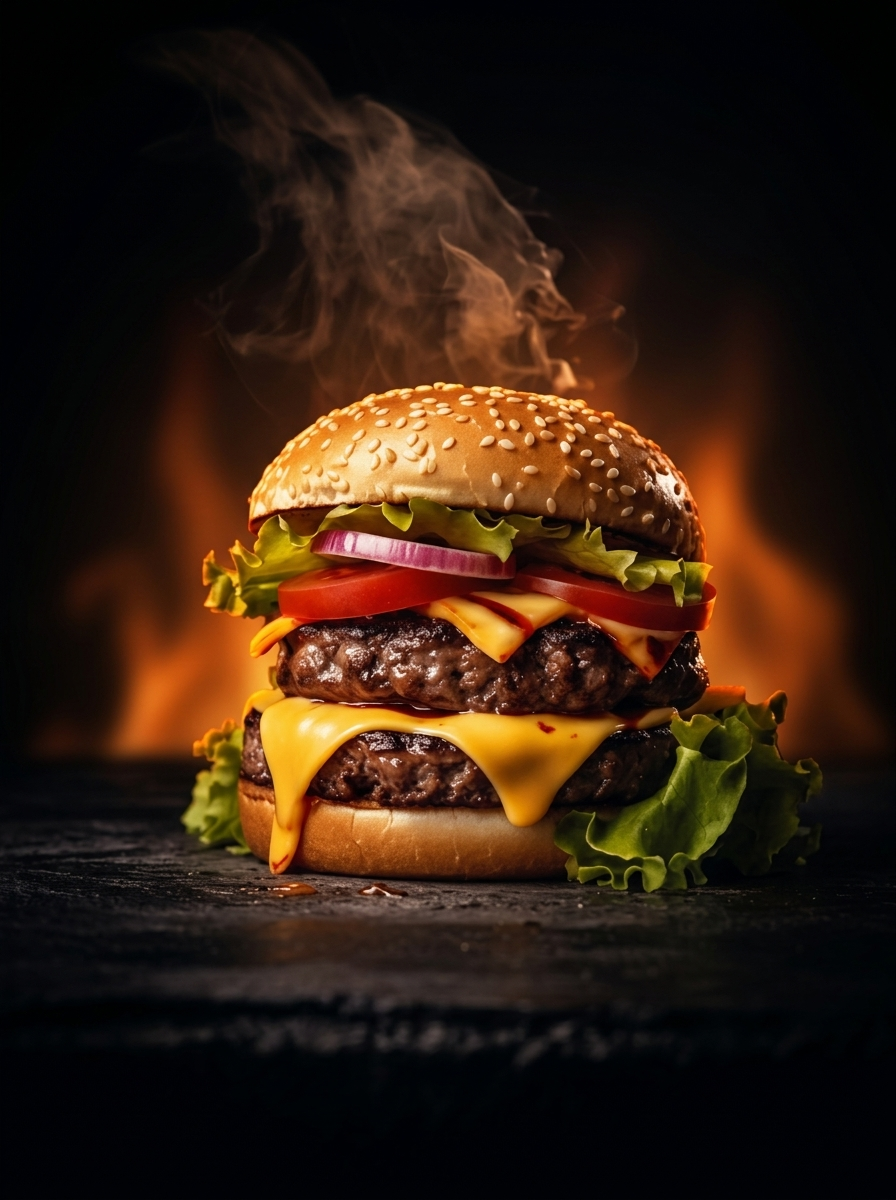
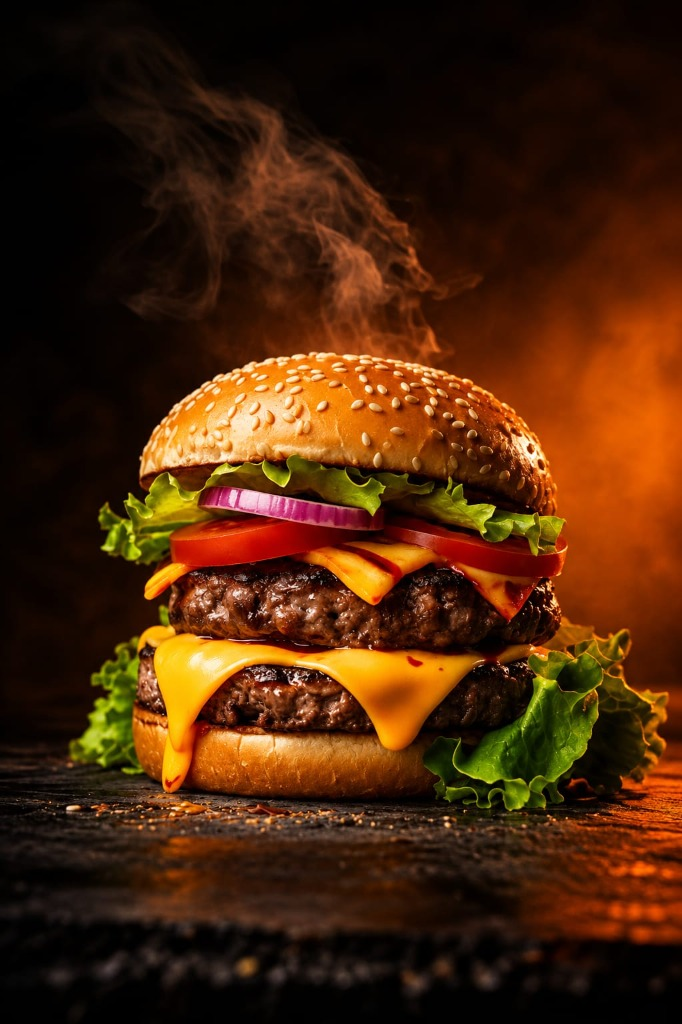
feat(ui): unified picture hero block with extended black background and 3D burger

diff --git a/frontend/src/components/home/PictureHeroBlock.tsx b/frontend/src/components/home/PictureHeroBlock.tsx
@@ -1,0 +1,150 @@
+import React, { useState, useRef } from 'react';
+import { Link } from 'react-router-dom';
+import { useAuth } from '../../context/AuthContext.js';
+import { UtensilsCrossed, ArrowRight } from 'lucide-react';
+
+export const PictureHeroBlock: React.FC = () => {
+  const { user } = useAuth();
+  const burgerRef = useRef<HTMLDivElement | null>(null);
+
+  // 3D Tilt Coordinates applied STRICTLY to the burger picture only
+  const [tilt, setTilt] = useState<{ x: number; y: number }>({ x: 0, y: 0 });
+  const [isHovered, setIsHovered] = useState<boolean>(false);
+
+  const handleBurgerMouseMove = (e: React.MouseEvent<HTMLDivElement>) => {
+    if (!burgerRef.current) return;
+    const rect = burgerRef.current.getBoundingClientRect();
+    const x = e.clientX - rect.left;
+    const y = e.clientY - rect.top;
+
+    const centerX = rect.width / 2;
+    const centerY = rect.height / 2;
+
+    // Smooth subtle tilt (-8 to +8 degrees)
+    const rotateX = -((y - centerY) / centerY) * 8;
+    const rotateY = ((x - centerX) / centerX) * 8;
+
+    setTilt({ x: rotateX, y: rotateY });
+  };
+
+  const handleBurgerMouseEnter = () => {
+    setIsHovered(true);
+  };
+
+  const handleBurgerMouseLeave = () => {
+    setIsHovered(false);
+    setTilt({ x: 0, y: 0 });
+  };
+
+  const getDashboardLink = () => {
+    if (!user) return '/student/menu';
+    if (user.role === 'STUDENT') return '/student/menu';
+    if (user.role === 'KITCHEN_STAFF') return '/kitchen/dashboard';
+    if (user.role === 'ADMIN') return '/admin/dashboard';
+    return '/student/menu';
+  };
+
+  return (
+    <div className="picture-hero-block relative w-full min-h-[540px] lg:min-h-[580px] xl:min-h-[620px] flex items-center overflow-hidden">
+      {/* Atmosphere Background Glow Layers */}
+      <div className="absolute top-1/2 right-[18%] -translate-y-1/2 w-[380px] h-[380px] bg-brand-500/[0.18] rounded-full blur-[100px] pointer-events-none -z-0" />
+      <div className="absolute -bottom-10 left-10 w-[300px] h-[300px] bg-brand-500/[0.06] rounded-full blur-[120px] pointer-events-none -z-0" />
+
+      {/* Rustic Slate Base Glow along bottom */}
+      <div className="absolute bottom-0 inset-x-0 h-16 bg-gradient-to-t from-[#06070a] via-[#06070a]/80 to-transparent pointer-events-none z-10" />
+
+      <div className="w-full grid grid-cols-1 lg:grid-cols-12 items-center relative z-20 min-h-[540px] lg:min-h-[580px] xl:min-h-[620px]">
+        {/* Left Side: Writings Written in the Interface of the Picture on Extended Black Background */}
+        <div className="lg:col-span-7 p-7 sm:p-10 lg:p-14 xl:p-16 flex flex-col justify-center space-y-6 text-center lg:text-left relative z-20">
+          <h1 className="text-3xl sm:text-5xl lg:text-6xl font-black text-white tracking-tight leading-[1.12] drop-shadow-md">
+            Fresh Gourmet Food,{' '}
+            <span className="bg-gradient-to-r from-brand-400 via-brand-500 to-amber-400 bg-clip-text text-transparent">
+              Zero Waiting.
+            </span>
+          </h1>
+
+          <p className="text-sm sm:text-base lg:text-lg text-slate-300 max-w-xl leading-relaxed font-normal drop-shadow">
+            Experience handcrafted double smash patties, Wisconsin cheddar melt, and fresh culinary specials prepared to order. Skip counter queues with instant student mobile checkout.
+          </p>
+
+          {/* 3D Action Buttons */}
+          <div className="flex flex-wrap items-center justify-center lg:justify-start gap-4 pt-2">
+            <Link
+              to={getDashboardLink()}
+              className="btn-primary py-3.5 px-8 text-sm sm:text-base flex items-center gap-2.5 shadow-glow-orange"
+            >
+              <UtensilsCrossed className="w-5 h-5" />
+              {user ? 'View Dining Menu' : 'Explore Menu'}
+            </Link>
+
+            {!user && (
+              <Link
+                to="/login"
+                className="btn-secondary py-3.5 px-7 text-sm flex items-center gap-2"
+              >
+                Sign In <ArrowRight className="w-4 h-4 text-brand-400" />
+              </Link>
+            )}
+          </div>
+        </div>
+
+        {/* Right Side: Burger Picture Portrayed Correctly Inside the Same Block */}
+        <div className="lg:col-span-5 flex items-center justify-center lg:justify-end relative z-10 p-4 sm:p-6 lg:p-0 lg:pr-8 xl:pr-12">
+          <div
+            ref={burgerRef}
+            onMouseMove={handleBurgerMouseMove}
+            onMouseEnter={handleBurgerMouseEnter}
+            onMouseLeave={handleBurgerMouseLeave}
+            className="relative w-full max-w-[380px] sm:max-w-[420px] lg:max-w-[460px] xl:max-w-[500px] flex items-center justify-center select-none"
+            style={{ perspective: '1200px' }}
+          >
+            {/* The Tilting Burger Image with Feathered Left Edge to Blend Flawlessly into Extended Black Background */}
+            <div
+              className="relative w-full will-change-transform"
+              style={{
+                transform: isHovered
+                  ? `rotateX(${tilt.x}deg) rotateY(${tilt.y}deg) scale3d(1.03, 1.03, 1.03)`
+                  : 'rotateX(0deg) rotateY(0deg) scale3d(1, 1, 1)',
+                transition: isHovered
+                  ? 'transform 0.12s ease-out'
+                  : 'transform 0.6s cubic-bezier(0.2, 0.8, 0.2, 1)',
+                transformStyle: 'preserve-3d',
+              }}
+            >
+              <div className="relative animate-hero-float">
+                <img
+                  src="/hero_burger.jpg"
+                  alt="CampusBite Signature Gourmet Smash Burger"
+                  className="w-full h-auto object-contain mx-auto select-none pointer-events-none filter contrast-[1.04] brightness-[1.02]"
+                  style={{
+                    // Feathered horizontal blend: the left side melts seamlessly into the extended black background
+                    maskImage:
+                      'linear-gradient(to right, transparent 0%, rgba(0,0,0,0.3) 6%, rgba(0,0,0,0.85) 16%, #000 30%), linear-gradient(to bottom, transparent 0%, #000 5%, #000 95%, transparent 100%)',
+                    WebkitMaskImage:
+                      'linear-gradient(to right, transparent 0%, rgba(0,0,0,0.3) 6%, rgba(0,0,0,0.85) 16%, #000 30%), linear-gradient(to bottom, transparent 0%, #000 5%, #000 95%, transparent 100%)',
+                    maskComposite: 'intersect',
+                    WebkitMaskComposite: 'destination-in',
+                    filter:
+                      'drop-shadow(0 25px 35px rgba(0, 0, 0, 0.95)) drop-shadow(0 0 40px rgba(255, 107, 0, 0.22))',
+                  }}
+                />
+
+                {/* Dynamic Specular Sheen on Hover */}
+                {isHovered && (
+                  <div
+                    className="absolute inset-0 pointer-events-none mix-blend-overlay opacity-30 rounded-full transition-opacity duration-300"
+                    style={{
+                      background: `radial-gradient(circle at ${50 + tilt.y * 2.5}% ${
+                        50 - tilt.x * 2.5
+                      }%, rgba(255, 255, 255, 0.9) 0%, transparent 65%)`,
+                    }}
+                  />
+                )}
+              </div>
+            </div>
+          </div>
+        </div>
+      </div>
+    </div>
+  );
+};

diff --git a/frontend/src/pages/public/LandingPage.tsx b/frontend/src/pages/public/LandingPage.tsx
@@ -4,7 +4,7 @@ import { useAuth } from '../../context/AuthContext.js';
 import { FoodService } from '../../services/food.service.js';
 import { FoodItem } from '../../types/index.js';
 import { FoodCard } from '../../components/student/FoodCard.js';
-import { HeroBurgerShowcase } from '../../components/home/HeroBurgerShowcase.js';
+import { PictureHeroBlock } from '../../components/home/PictureHeroBlock.js';
 import { UtensilsCrossed, ArrowRight, Clock, Bell } from 'lucide-react';
 
 export const LandingPage: React.FC = () => {
@@ -36,55 +36,10 @@ export const LandingPage: React.FC = () => {
 
   return (
     <div className="space-y-16 pb-20">
-      {/* Hero Section: 5-Star Luxury Division Bar */}
+      {/* Hero Section: Unified Picture Hero Block (Writings inside extended black background on left, burger on right) */}
       <section className="relative pt-6 pb-12 lg:pt-10 lg:pb-16">
         <div className="max-w-7xl mx-auto px-4 sm:px-6 lg:px-8">
-          {/* The 5-Star Hotel Division Bar with 3D Gradient Shadows */}
-          <div className="hotel-division-bar p-8 sm:p-12 lg:p-14">
-            {/* Subtle Luxury Ambient Radial Glow */}
-            <div className="absolute top-1/2 right-1/4 -translate-y-1/2 w-[480px] h-[480px] bg-brand-500/[0.12] rounded-full blur-[130px] pointer-events-none" />
-
-            <div className="grid grid-cols-1 lg:grid-cols-12 gap-8 lg:gap-12 items-center relative z-10">
-              {/* Left Content: The Writings Portrayed with the Burger */}
-              <div className="lg:col-span-7 space-y-6 text-center lg:text-left">
-                <h1 className="text-3xl sm:text-5xl lg:text-6xl font-black text-white tracking-tight leading-[1.12]">
-                  Fresh Gourmet Food,{' '}
-                  <span className="bg-gradient-to-r from-brand-400 via-brand-500 to-amber-400 bg-clip-text text-transparent">
-                    Zero Waiting.
-                  </span>
-                </h1>
-
-                <p className="text-sm sm:text-base text-slate-300 max-w-xl leading-relaxed">
-                  Experience handcrafted double smash patties, Wisconsin cheddar melt, and fresh culinary specials prepared to order. Skip counter queues with instant student mobile checkout.
-                </p>
-
-                {/* 3D Action Buttons */}
-                <div className="flex flex-wrap items-center justify-center lg:justify-start gap-4 pt-2">
-                  <Link
-                    to={getDashboardLink()}
-                    className="btn-primary py-3.5 px-8 text-sm sm:text-base flex items-center gap-2.5 shadow-glow-orange"
-                  >
-                    <UtensilsCrossed className="w-5 h-5" />
-                    {user ? 'View Dining Menu' : 'Explore Menu'}
-                  </Link>
-
-                  {!user && (
-                    <Link
-                      to="/login"
-                      className="btn-secondary py-3.5 px-7 text-sm flex items-center gap-2"
-                    >
-                      Sign In <ArrowRight className="w-4 h-4 text-brand-400" />
-                    </Link>
-                  )}
-                </div>
-              </div>
-
-              {/* Right: The Blended Burger Picture (Animation works ONLY on the burger picture) */}
-              <div className="lg:col-span-5 flex justify-center items-center">
-                <HeroBurgerShowcase size="hero" />
-              </div>
-            </div>
-          </div>
+          <PictureHeroBlock />
         </div>
       </section>
 

diff --git a/frontend/src/index.css b/frontend/src/index.css
@@ -65,6 +65,33 @@
       inset 0 -1px 0 rgba(0, 0, 0, 0.9);
   }
 
+  /* Unified Picture Hero Block: Extended Black Background on Left, Burger on Right */
+  .picture-hero-block {
+    background-color: #06070a;
+    background-image: 
+      radial-gradient(circle at 82% 48%, rgba(255, 107, 0, 0.16) 0%, rgba(200, 80, 0, 0.05) 45%, transparent 75%),
+      linear-gradient(to right, #06070a 0%, #06070a 45%, rgba(6, 7, 10, 0.9) 65%, transparent 100%);
+    border: 1px solid rgba(255, 107, 0, 0.18);
+    border-radius: 2rem;
+    box-shadow: 
+      0 35px 80px -20px rgba(0, 0, 0, 0.98),
+      0 0 50px -10px rgba(255, 107, 0, 0.16),
+      inset 0 1px 1px rgba(255, 255, 255, 0.1),
+      inset 0 -1px 0 rgba(0, 0, 0, 0.95);
+    position: relative;
+    overflow: hidden;
+    transition: all 0.35s ease;
+  }
+
+  .picture-hero-block:hover {
+    border-color: rgba(255, 107, 0, 0.35);
+    box-shadow: 
+      0 40px 90px -20px rgba(0, 0, 0, 0.98),
+      0 0 60px -8px rgba(255, 107, 0, 0.22),
+      inset 0 1px 1px rgba(255, 255, 255, 0.14),
+      inset 0 -1px 0 rgba(0, 0, 0, 0.95);
+  }
+
   /* 3D Moody Card */
   .card-3d {
     background: linear-gradient(145deg, #141824 0%, #0d1017 100%);
